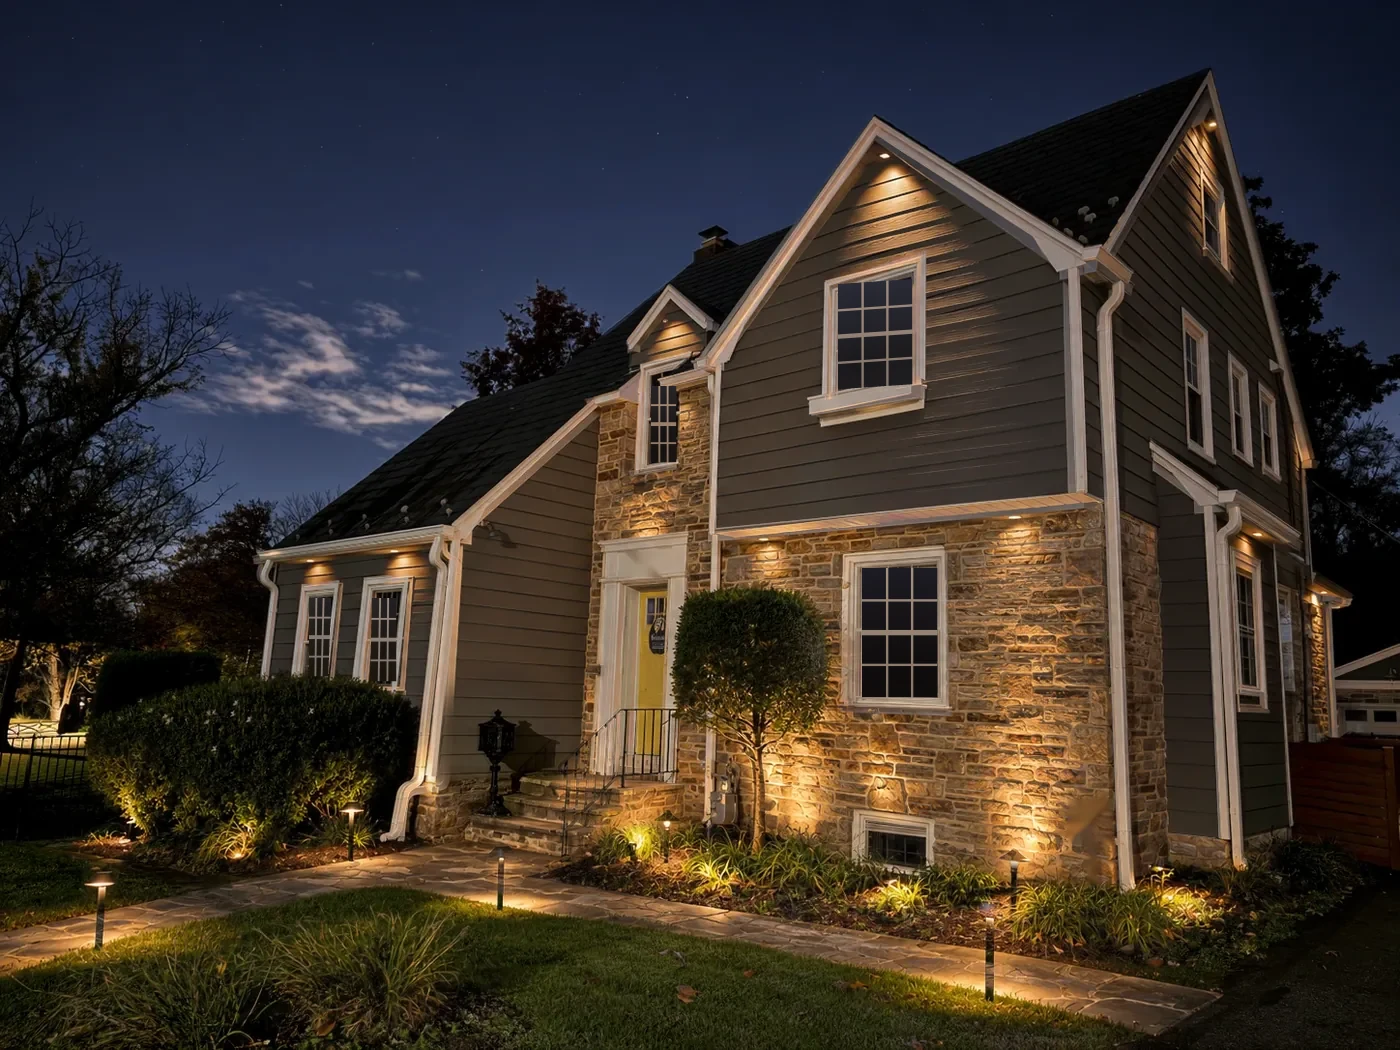
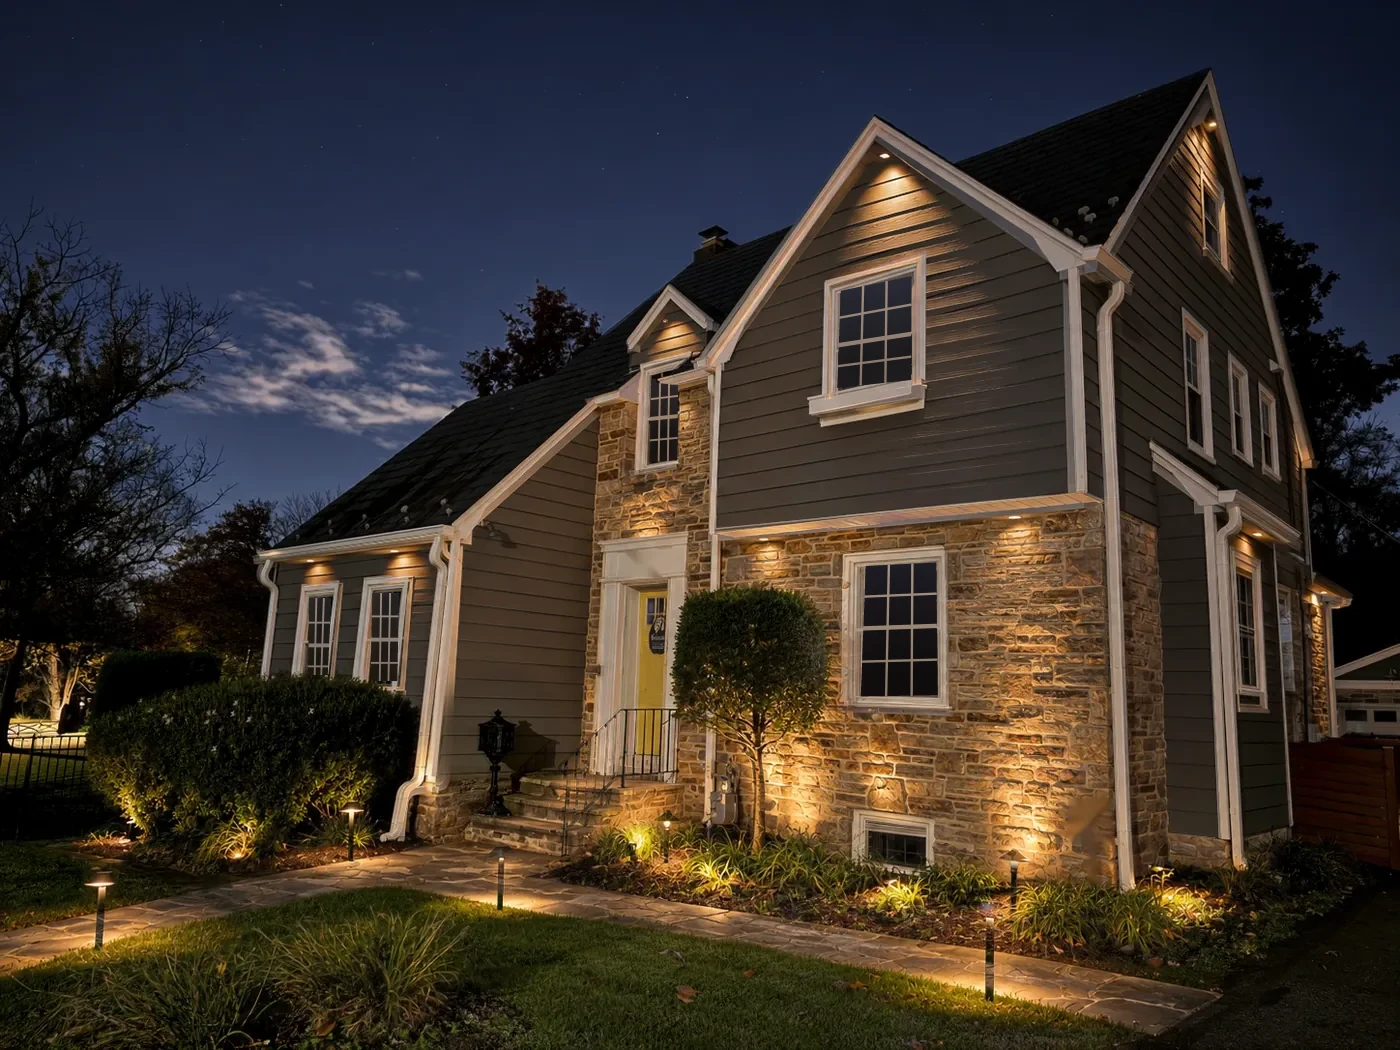
Perspective-true window grids on lighting images; holiday gallery leads with porch; drop low-res black window photo
Claude-Session: https://claude.ai/code/session_01477XfrkwMA9gQYivJ4i7xH

diff --git a/src/data/divisions.ts b/src/data/divisions.ts
@@ -34,7 +34,6 @@ export const divisions: Division[] = [
       { src: '/img/windows-bay.webp', alt: 'Bright bay of tall divided-lite windows wrapping a room, with trees outside', caption: 'A full bay of divided-lite windows, set into the curve of the room.', w: 536, h: 420 },
       { src: '/img/windows-interior.webp', alt: 'Double-height living room with tall grid windows and French doors filling the room with low sun', caption: 'Tall grid windows and French doors: the reason the room is built around them.', w: 596, h: 384 },
       { src: '/img/windows-picture.webp', alt: 'Wide white picture and casement windows looking out over a garden and pool', caption: 'Wide picture and casement units that frame the garden, not the sash.', w: 522, h: 416 },
-      { src: '/img/windows-black.webp', alt: 'Black-framed grid window and matching glass door on a porch with board and batten siding and stone', caption: 'Black frames against board and batten and stone, window and door matched.', w: 400, h: 332 },
     ],
     description: 'Window replacement for Central Maryland homes: double-hung, casement and picture windows, measured to the opening and trimmed to match. MHIC #41139.',
     services: [

diff --git a/tools/fix_lighting_windows.py b/tools/fix_lighting_windows.py
@@ -7,17 +7,21 @@ SRC = '/tmp/g/lighting-full.orig.webp'
 im = np.asarray(Image.open(SRC).convert('RGB')).astype(np.float32)
 H, W = im.shape[:2]
 # Glass quads: TL, TR, BR, BL (pixels in the 1400x1050 image).
+# Glass corners (TL, TR, BR, BL) traced on the frame's inner edge; `rail` is
+# where the meeting rail sits (0 = top of glass, 1 = bottom); `clip` stops the
+# repaint where planting covers the window.
 WINDOWS = [
-    [(838, 284), (912, 279), (912, 384), (838, 389)],   # front gable
-    [(862, 568), (937, 568), (937, 697), (862, 697)],   # stone front
-    [(651, 386), (676, 386), (676, 462), (651, 462)],   # dormer
-    [(309, 598), (331, 598), (328, 676), (309, 676)],   # left wing A
-    [(372, 598), (396, 598), (396, 681), (370, 681)],   # left wing B
+    dict(q=[(840.7, 290.8), (911.0, 275.9), (911.0, 379.8), (837.3, 387.7)], rail=0.57),   # front gable
+    dict(q=[(865.7, 566.0), (935.8, 562.5), (937.5, 695.0), (860.7, 696.2)], rail=0.50),   # stone front
+    dict(q=[(651.0, 379.5), (678.0, 376.0), (677.0, 460.0), (649.5, 462.0)], rail=0.48,
+         exclude=[(656, 368), (692, 368), (692, 386.5), (656, 382.5)]),  # dormer (roof trim excluded)
+    dict(q=[(309.0, 598.0), (331.0, 598.0), (327.0, 686.0), (308.0, 686.0)], rail=0.50, clip=675),  # left wing A
+    dict(q=[(372.3, 593.0), (398.7, 593.0), (397.0, 686.0), (370.6, 686.0)], rail=0.50, clip=681),  # left wing B
 ]
 out = im.copy()
 SS = 4  # draw lines supersampled for anti-aliasing
-for q in WINDOWS:
-    q = np.array(q, np.float32)
+for win in WINDOWS:
+    q = np.array(win['q'], np.float32)
     x0, y0 = q.min(0).astype(int) - 3; x1, y1 = q.max(0).astype(int) + 4
     patch = im[y0:y1, x0:x1].copy()
     # Glass without the old muntins: a wide median keeps reflections and the
@@ -37,19 +41,27 @@ for q in WINDOWS:
     ring = im[max(0, y0 - 6):y1 + 6, max(0, x0 - 6):x1 + 6].reshape(-1, 3)
     lum = ring.mean(1); frame = ring[lum >= np.percentile(lum, 88)].mean(0) * 0.92
     lines = np.zeros((ph * SS, pw * SS), np.uint8)
-    def P(u, v):  # bilinear point inside the quad, u across, v down
-        top = qm[0] + (qm[1] - qm[0]) * u; bot = qm[3] + (qm[2] - qm[3]) * u
-        return ((top + (bot - top) * v) * SS)
+    # True perspective: map the unit square onto the glass quad.
+    Hm = cv2.getPerspectiveTransform(np.float32([[0, 0], [1, 0], [1, 1], [0, 1]]), np.float32(qm * SS))
+    def P(u, v):
+        x, y, w = Hm @ np.array([u, v, 1.0])
+        return np.int32(np.round([x / w, y / w]))
     wpx = max(1.4, (q[1][0] - q[0][0]) / 40)
     t = int(round(wpx * SS))
-    for u in (1 / 3, 2 / 3):                       # 3 lites across
-        cv2.line(lines, tuple(np.int32(P(u, 0))), tuple(np.int32(P(u, 1))), 255, t, cv2.LINE_AA)
-    for v in (0.25, 0.75):                         # 2 lites high per sash
-        cv2.line(lines, tuple(np.int32(P(0, v))), tuple(np.int32(P(1, v))), 255, t, cv2.LINE_AA)
-    cv2.line(lines, tuple(np.int32(P(0, 0.5))), tuple(np.int32(P(1, 0.5))), 255, int(t * 2.4), cv2.LINE_AA)  # meeting rail
+    r = win['rail']
+    for u in (1 / 3, 2 / 3):                                 # 3 lites across
+        cv2.line(lines, tuple(P(u, 0)), tuple(P(u, 1)), 255, t, cv2.LINE_AA)
+    for v in (r / 2, r + (1 - r) / 2):                       # 2 lites high per sash
+        cv2.line(lines, tuple(P(0, v)), tuple(P(1, v)), 255, t, cv2.LINE_AA)
+    cv2.line(lines, tuple(P(0, r)), tuple(P(1, r)), 255, int(t * 2.4), cv2.LINE_AA)  # meeting rail
     lines = cv2.resize(lines, (pw, ph), interpolation=cv2.INTER_AREA).astype(np.float32)[..., None] / 255
     shade = np.linspace(1.0, 0.8, ph)[:, None, None]  # rails catch less soffit light lower down
     newp = glass * (1 - lines) + frame * shade * lines
+    if 'clip' in win: mask[max(0, win['clip'] - y0):] = 0
+    if 'exclude' in win:
+        ex = np.zeros((ph * SS, pw * SS), np.uint8)
+        cv2.fillPoly(ex, [np.round((np.float32(win['exclude']) - [x0, y0]) * SS).astype(np.int32)], 255)
+        mask *= 1 - cv2.resize(ex, (pw, ph), interpolation=cv2.INTER_AREA).astype(np.float32)[..., None] / 255
     out[y0:y1, x0:x1] = patch * (1 - mask) + newp * mask
 full = Image.fromarray(out.clip(0, 255).astype(np.uint8))
 full.save('public/img/lighting-full.webp', quality=88, method=6)
@@ -67,5 +79,5 @@ def recut(orig, dst):
     box = (x, y, x + ob.width * s, y + ob.height * s)
     full.crop(tuple(round(v) for v in box)).resize(ob.size, Image.LANCZOS).save(dst, quality=88, method=6)
     print(dst, round(mv, 3), round(s, 3), box)
-recut('/tmp/g/lighting-stone.orig.webp', 'public/img/lighting-stone.webp')
-recut('/tmp/g/lighting-path.orig.webp', 'public/img/lighting-path.webp')
+full.crop((677, 291, 1257, 735)).resize((1000, 766), Image.LANCZOS).save('public/img/lighting-stone.webp', quality=88, method=6)
+# lighting-path.webp comes from a different render and is left untouched.
